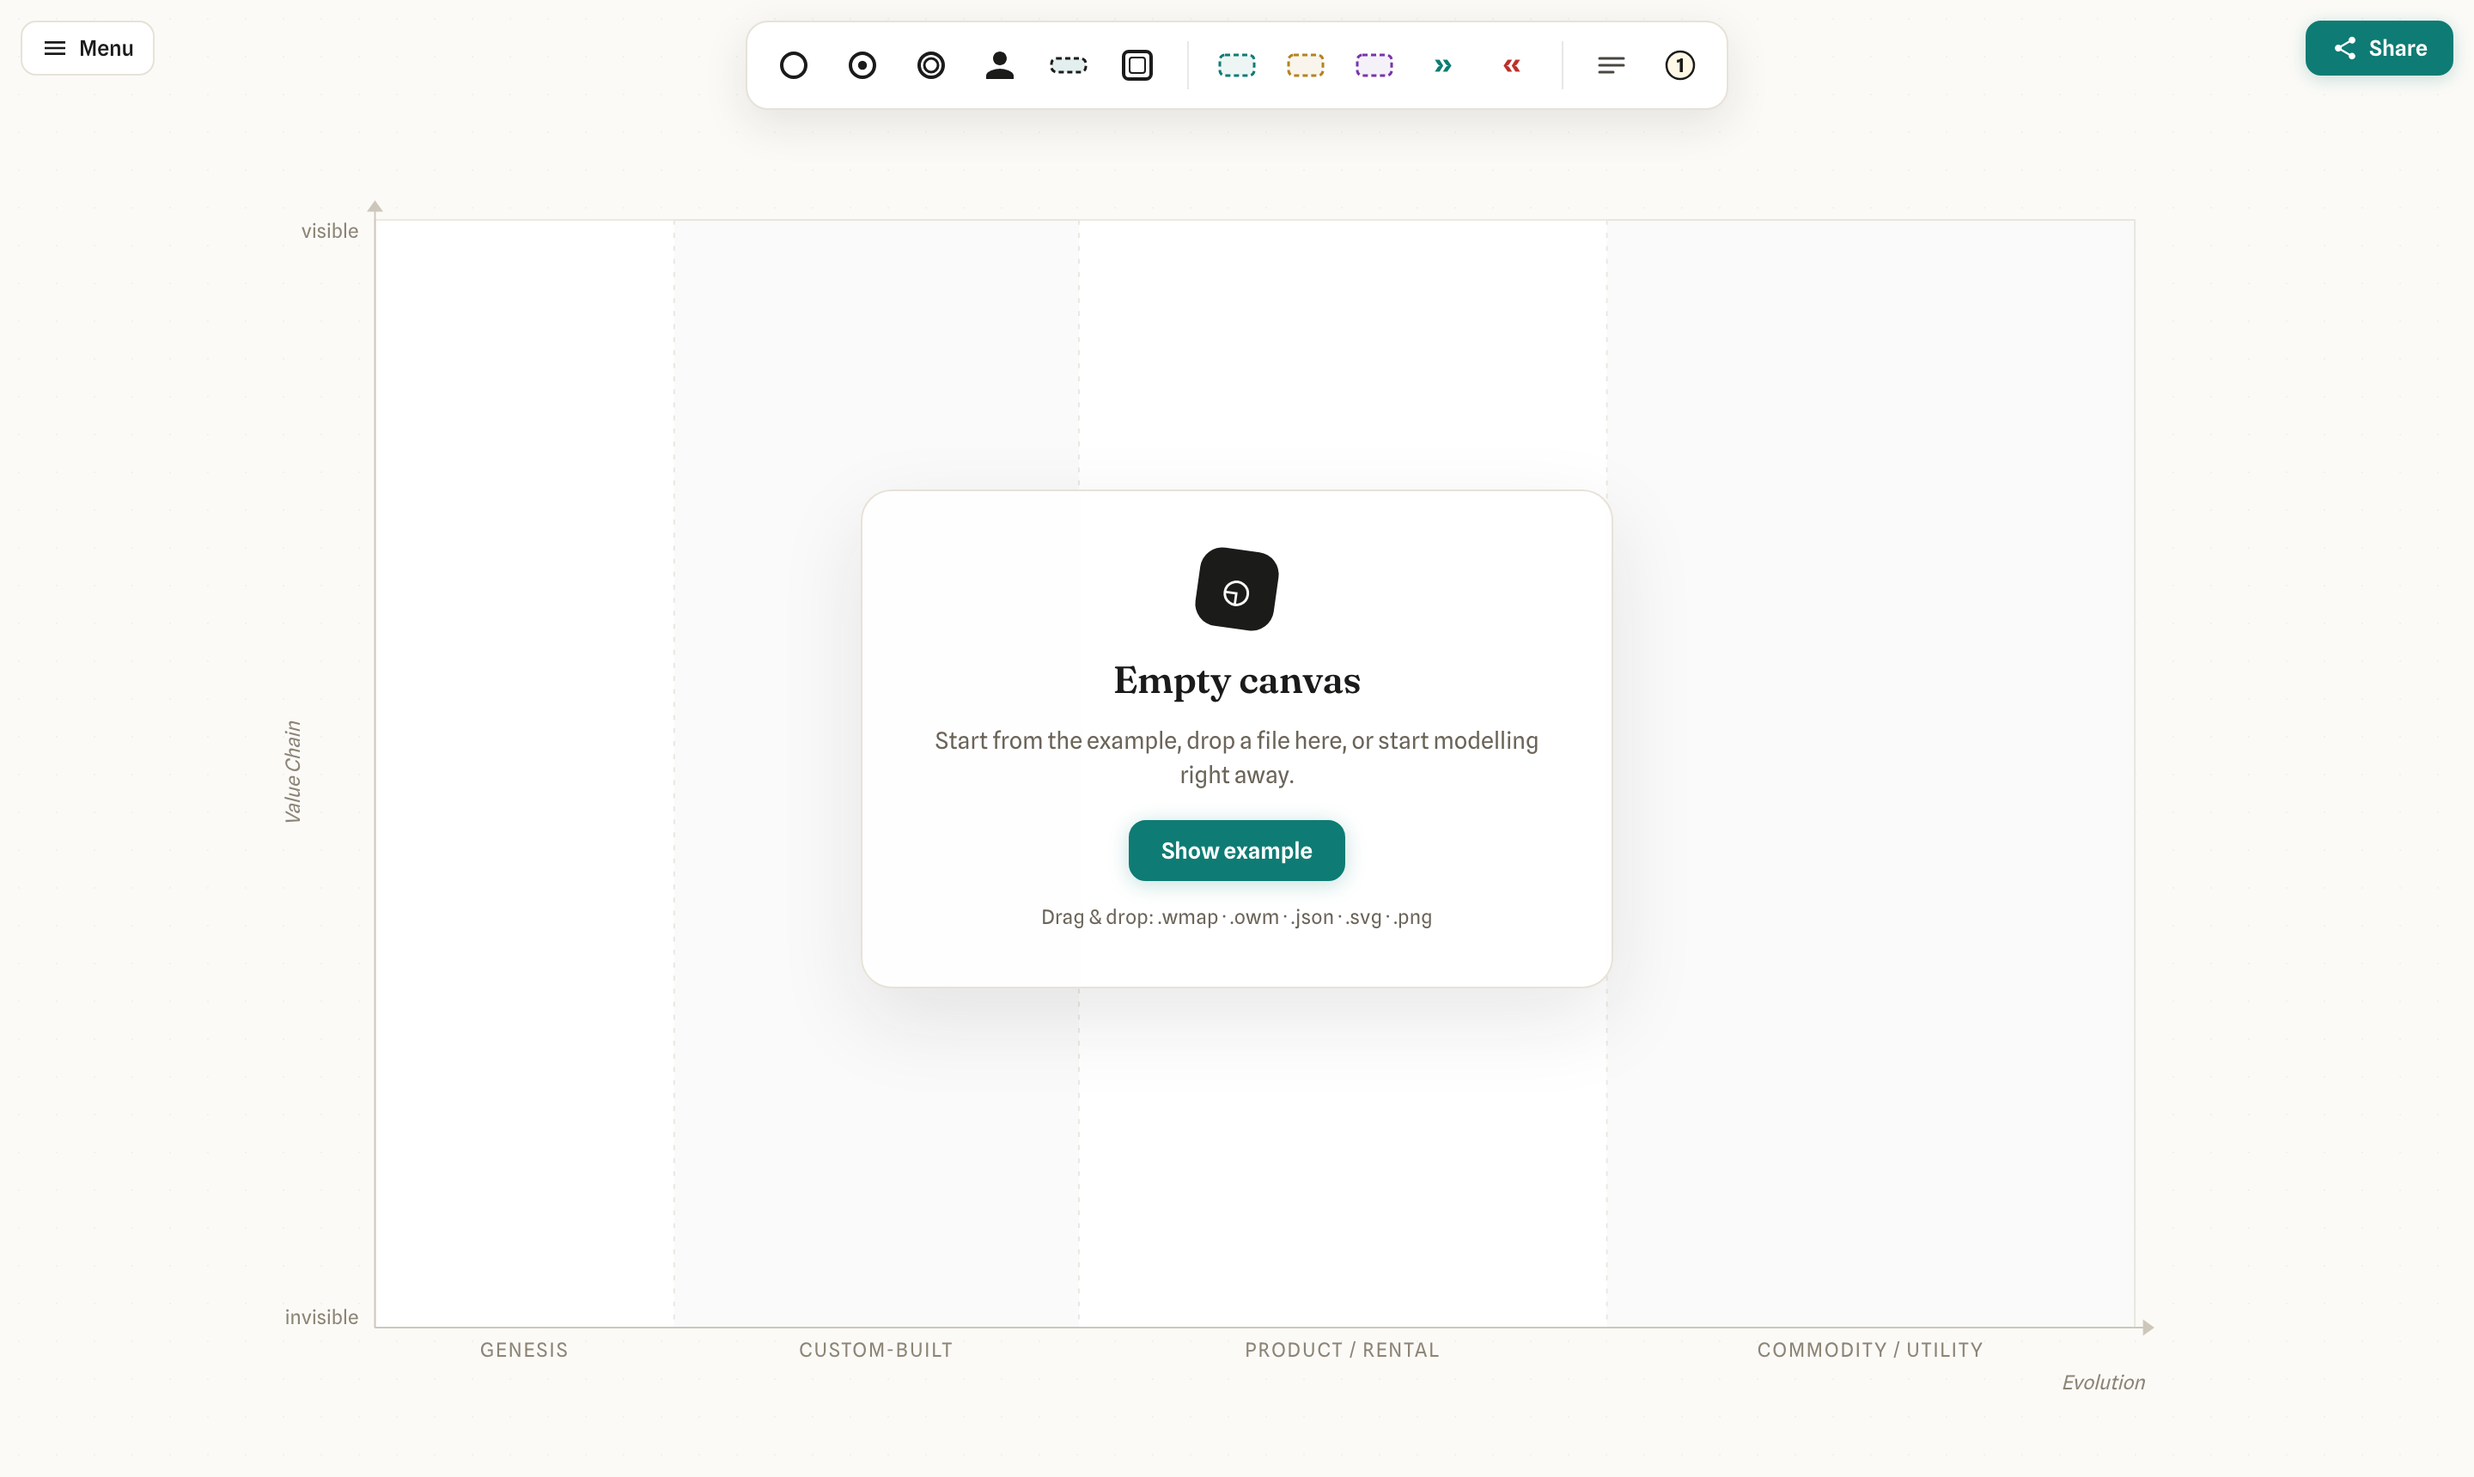
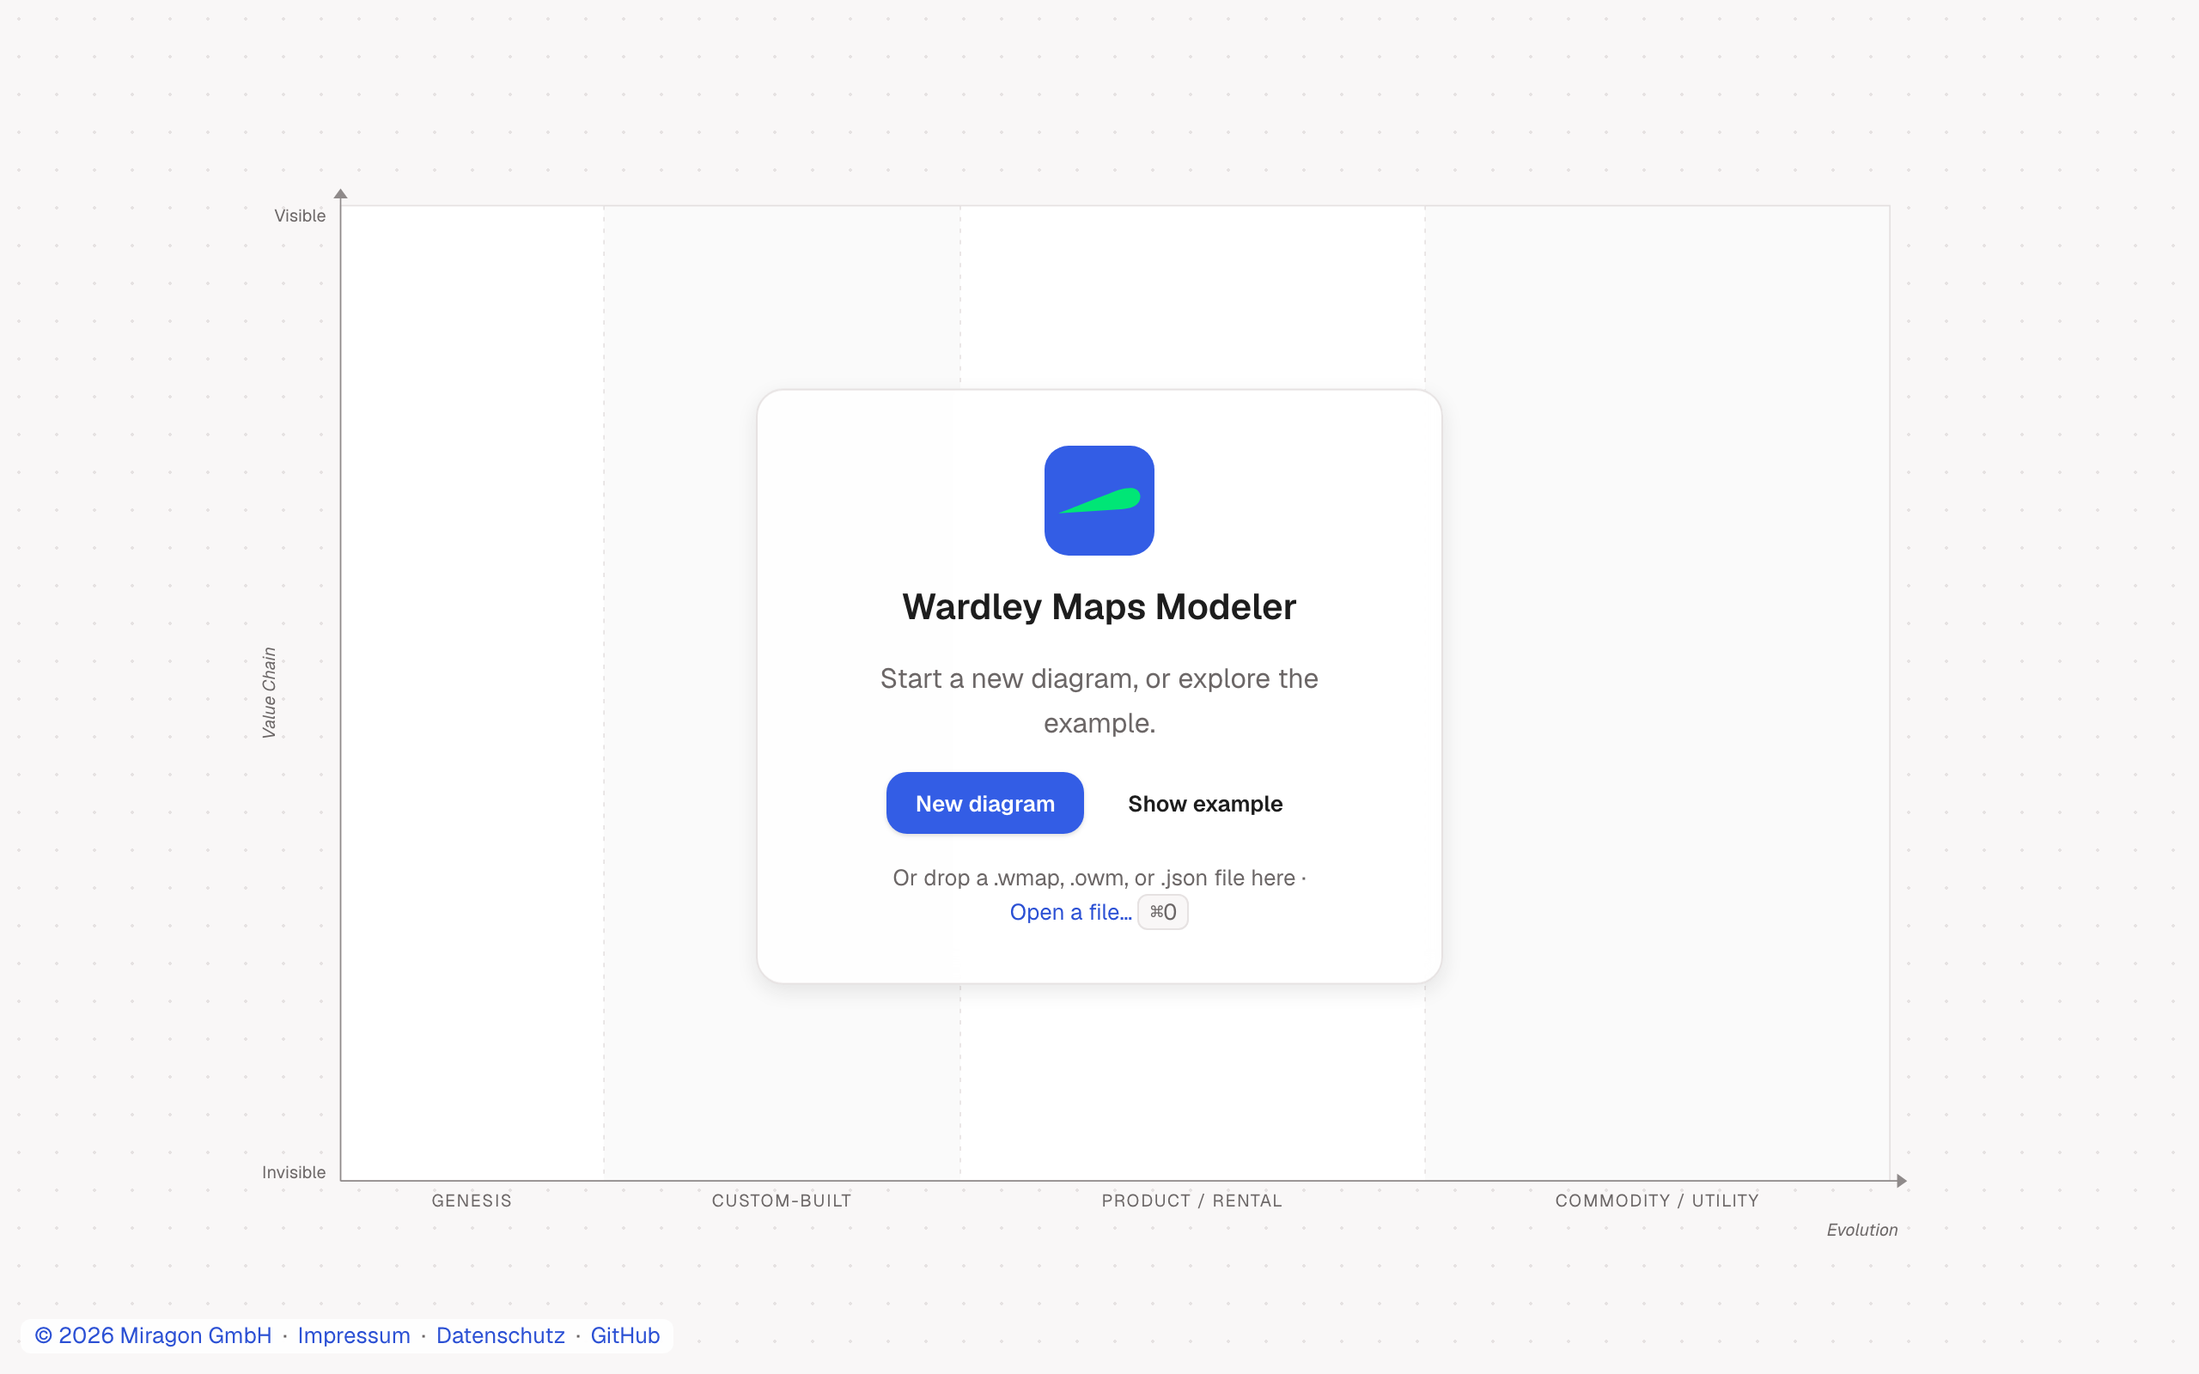
docs: describe the web app on the modeler shell
- README: the web app's table follows the new menu (Map title…, Open…
  ⌘O, Export as .wmap / JSON, Edit as OWM-DSL…, View as JSON…), Share,
  the problems pill and Undo of a replaced map on Cmd/Ctrl+Z; the zoom
  row says that Cmd/Ctrl+0 is 100 % and Shift+1 fits.
- apps/webapp/README: the editor in the shared chrome of the Miragon
  modelers.
- CLAUDE.md and CONTRIBUTING: the web app mounts the shell's web host,
  the webapp Playwright project runs the shell's conformance kit, the
  build check, and the design-system pointer names the web app's
  THEMES and its own text-dialog styles instead of the removed chrome.
- docs/screenshots: the start screen and the Tea Shop map in the new
  chrome (1280×800, light).

diff --git a/README.md b/README.md
@@ -61,7 +61,7 @@ Press `?` in the web app for the same list, with the keys of your platform.
 | Delete                          | `Delete` / `Backspace`                                                                                                                                                                           |
 | Nudge selection                 | Arrow keys (`Shift` = coarse)                                                                                                                                                                    |
 | Undo / redo                     | `Ctrl/Cmd+Z` / `Ctrl/Cmd+Shift+Z` or `Ctrl/Cmd+Y`                                                                                                                                                |
-| Zoom                            | `Ctrl/Cmd` + `+` / `-` / `0` (fit), controls bottom-right                                                                                                                                        |
+| Zoom                            | `Ctrl/Cmd` + `+` / `-` / `0` (100 %), `Shift+1` fits; the zoom panel bottom-right                                                                                                                |
 | Edit label / note               | Double-click (notes: `Cmd/Ctrl+Enter` saves)                                                                                                                                                     |
 | Move a label                    | Drag the label; `Alt` + double-click puts it back                                                                                                                                                |
 | Edit link annotation/flow value | Double-click the connection (or pencil in the pad)                                                                                                                                               |
@@ -71,15 +71,19 @@ Press `?` in the web app for the same list, with the keys of your platform.
 
 In the web app also:
 
-| Action                      | How                                                                                                               |
-| --------------------------- | ----------------------------------------------------------------------------------------------------------------- |
-| Rename the map              | Click the title next to the menu; `Enter` saves, `Esc` reverts. The browser tab and download names follow it      |
-| Save the map as a file      | `Ctrl/Cmd+S` or Menu › Download .wmap / .json                                                                     |
-| Edit the map as text        | Menu › View as OWM-DSL — edit, then Apply (`Ctrl/Cmd+Enter`); problems are listed by line                         |
-| Import text or a share link | Paste OWM text or a `#mz=` link onto the canvas, or drop a `.wmap` / `.owm` / `.json` file anywhere               |
-| Undo replacing the map      | Example, New, Open, paste and Apply replace the map; the "Map replaced · Undo" toast brings the previous one back |
-| Map size                    | Menu › Map size: preset, exact width × height, or Reset to default                                                |
-| Keyboard shortcuts          | `?` or Menu › Keyboard shortcuts                                                                                  |
+| Action                      | How                                                                                                                                             |
+| --------------------------- | ----------------------------------------------------------------------------------------------------------------------------------------------- |
+| Start                       | The start card offers New diagram and Show example; open or drop a file, or open a shared link                                                  |
+| Rename the map              | Menu › Map title…; the browser tab and download names follow it                                                                                 |
+| Open a file                 | `Ctrl/Cmd+O` or Menu › Open…, or drop a `.wmap` / `.owm` / `.json` file anywhere                                                                |
+| Save the map as a file      | `Ctrl/Cmd+S` or Menu › Export as .wmap / Export as JSON                                                                                         |
+| Share                       | Share (top right) copies a link that holds the whole map                                                                                        |
+| Edit the map as text        | Menu › Edit as OWM-DSL… — edit, then Apply (`Ctrl/Cmd+Enter`); problems are listed by line. Menu › View as JSON… shows the model                |
+| Import text or a share link | Paste OWM text or a `#mz=` link onto the canvas                                                                                                 |
+| Import problems             | Lines the map could not draw are listed by line behind the problems pill, bottom left                                                           |
+| Undo replacing the map      | New diagram, Open…, Show example, paste and Apply replace the map; the "Map replaced · Undo" toast or `Ctrl/Cmd+Z` brings the previous one back |
+| Map size, axis labels       | Menu › Map size… (preset, exact width × height, or Reset to default) and Menu › X-axis labels…, previewed live                                  |
+| Keyboard shortcuts          | `?` or Menu › Keyboard shortcuts…                                                                                                               |
 
 ## Packages
 

diff --git a/CLAUDE.md b/CLAUDE.md
@@ -37,12 +37,15 @@ import fails `npm run lint` and `npm run depcruise`.
 runs in the browser tests
 ([`conformance.browser.test.ts`](packages/renderer/test/browser/conformance.browser.test.ts)), and a
 skipped case fails the run. The VS Code webview mounts `@miragon/modeler-shell`
-([`apps/vscode/src/webview/main.ts`](apps/vscode/src/webview/main.ts)); the shell's conformance kit
-runs against it in the `vscode-webview` Playwright project (`e2e/tests/vscode/`).
+([`apps/vscode/src/webview/main.ts`](apps/vscode/src/webview/main.ts)), the web app mounts its web
+host ([`apps/webapp/src/main.ts`](apps/webapp/src/main.ts)); the shell's conformance kit runs
+against both, in the `vscode-webview` Playwright project (`e2e/tests/vscode/`) and in the `webapp`
+project (`e2e/tests/webapp-shell-conformance.spec.ts`).
 
 ## Commands
 
-- `npm run build` — all packages · `npm run build:webapp` · `npm run build:vscode`
+- `npm run build` — all packages · `npm run build:webapp` (then `npm run check:build -w apps/webapp`
+  checks the mode markup and licence comment it ships) · `npm run build:vscode`
 - `npm run dev:webapp` (alias: `npm run dev`) serves the webapp via [Portless](https://portless.sh)
   at a per-worktree `https://<branch>.wardley.localhost` URL (Portless-derived from the git worktree;
   config in [`apps/webapp/portless.json`](apps/webapp/portless.json); one-time `npx portless service
@@ -132,11 +135,12 @@ the skill to update. Reference implementation in this repo: tokens
 in-canvas chrome uses only `--cd-ui-*`/`--cd-shell-*` roles, no colour literals, overlays at most
 z-index 100) · canvas colours [`packages/renderer/src/draw/styles.ts`](packages/renderer/src/draw/styles.ts)
 · in-canvas chrome [`packages/renderer/src/assets/wardley.css`](packages/renderer/src/assets/wardley.css)
-· app chrome + toast `apps/webapp/src/{style.css,toast.ts,main.ts}` · VS Code webview: the chrome of
-`@miragon/modeler-shell` (light only, `WEBVIEW_THEMES` in
-[`apps/vscode/src/themes.ts`](apps/vscode/src/themes.ts); `style dark` round-trips but is never
-painted), its sizes checked by
-[`apps/vscode/test/tokens.sync.test.ts`](apps/vscode/test/tokens.sync.test.ts).
+· web app and VS Code webview: the chrome of `@miragon/modeler-shell` (light only: `THEMES` in
+[`apps/webapp/src/themes.ts`](apps/webapp/src/themes.ts) and `WEBVIEW_THEMES` in
+[`apps/vscode/src/themes.ts`](apps/vscode/src/themes.ts), kept equal by a unit test; `style dark`
+round-trips but is never painted), its sizes checked by
+[`apps/vscode/test/tokens.sync.test.ts`](apps/vscode/test/tokens.sync.test.ts); the web app's own
+content is the map-as-text dialogs ([`apps/webapp/src/style.css`](apps/webapp/src/style.css)).
 
 ## Code Style
 

diff --git a/apps/webapp/README.md b/apps/webapp/README.md
@@ -2,11 +2,14 @@
 
 [![License: MIT](https://img.shields.io/github/license/Miragon/wardley-maps-modeler)](https://github.com/Miragon/wardley-maps-modeler/blob/main/LICENSE)
 
-A browser editor for [Wardley Maps](https://learnwardleymapping.com/): an Excalidraw-style canvas
-with URL sharing, `.wmap`/`.owm`/`.json` open (drop anywhere, or paste OWM text or a share link
-onto the canvas) and download, an OWM-DSL text view you can edit and apply, and PNG/SVG picture
-export. Replacing the map is never final: a "Map replaced · Undo" toast brings the previous one
-back. Press `?` for the keyboard shortcuts. The demo app for the `@miragon/wardley-*` packages.
+A browser editor for [Wardley Maps](https://learnwardleymapping.com/) in the shared chrome of the
+Miragon modelers ([`@miragon/modeler-shell`](https://www.npmjs.com/package/@miragon/modeler-shell),
+web host): a start card, a menu with File, Model, Export and Help, Share as the primary action, the
+zoom panel, toasts, a problems list and the legal line. Maps are shared as links (the map lives in
+the URL hash), opened from `.wmap`/`.owm`/`.json` files (Open…, drop anywhere, or paste OWM text or a
+share link onto the canvas), edited as OWM-DSL text with Apply, and exported as PNG, SVG, JSON or
+`.wmap`. Replacing the map is never final: a "Map replaced · Undo" toast brings the previous one back.
+Press `?` for the keyboard shortcuts. The demo app for the `@miragon/wardley-*` packages.
 
 **[Live demo](https://wardley-maps.modeler.miragon.io)**
 

diff --git a/CONTRIBUTING.md b/CONTRIBUTING.md
@@ -53,7 +53,9 @@ not catch this).
 
 The Playwright config has two projects, each with its own dev server started for the run:
 
-- `webapp` — the demo web app (`apps/webapp`, Vite on `E2E_PORT`, default `5180`).
+- `webapp` — the demo web app (`apps/webapp`, Vite on `E2E_PORT`, default `5180`). It runs the
+  shell's conformance kit on the web host, the app's handlers behind the chrome and the modelling
+  interactions.
 - `vscode-webview` — the VS Code webview (`apps/vscode/src/webview/main.ts`) inside the VS Code
   stub of `@miragon/modeler-shell`, served by the test page in `e2e/webview/` (Vite on
   `E2E_WEBVIEW_PORT`, default `5190`). It runs the shell's conformance kit, the webview's side of
